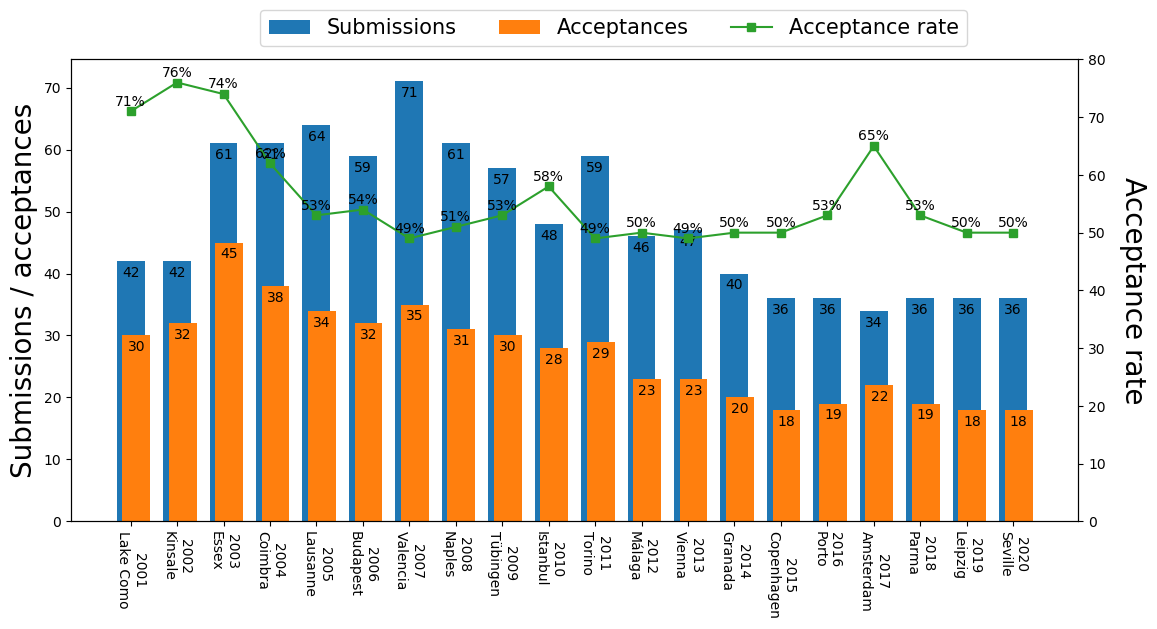
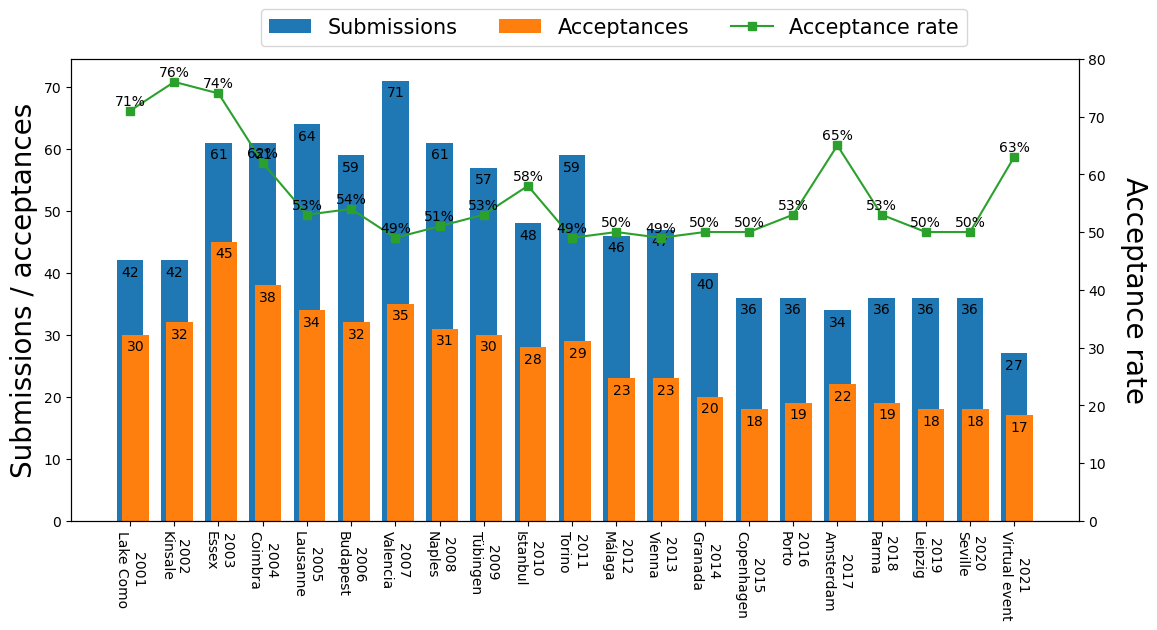
update statistics of 4 Evostar confs

diff --git a/index.md b/index.md
@@ -251,6 +251,7 @@ EuroGP is held as part of EvoStar, which consists of EuroGP, EvoApplications, Ev
 | 2018 | 36         | 19         | 53%             | Parma      | 
 | 2019 | 36         | 18         | 50%             | Leipzig    | 
 | 2020 | 36         | 18         | 50%             | Seville    | 
+| 2021 | 27         | 17         | 63%             | Virtual event    | 
 
 ![EuroGP](fig/stats_eurogp.png) 
 
@@ -284,6 +285,7 @@ EvoCOP is held as part of EvoStar, which consists of EuroGP, EvoApplications, Ev
 | 2018 | 37         | 12         | 32%             | Parma      | 
 | 2019 | 37         | 14         | 38%             | Leipzig    | 
 | 2020 | 37         | 14         | 38%             | Seville    | 
+| 2021 | 42         | 14         | 33%             | Virtual event    | 
 
 ![EvoCOP](fig/stats_evocop.png) 
 
@@ -306,6 +308,7 @@ EvoMUSART is held as part of EvoStar, which consists of EuroGP, EvoApplications,
 | 2018 | 33         | 20         | 61%             | Parma      | 
 | 2019 | 24         | 16         | 67%             | Leipzig    | 
 | 2020 | 31         | 15         | 48%             | Seville    | 
+| 2021 | 66         | 31         | 47%             | Virtual event    | 
 
 ![EvoMUSART](fig/stats_evomusart.png) 
 
@@ -331,6 +334,7 @@ EvoApplications is held as part of EvoStar, which consists of EuroGP, EvoApplica
 | 2018 | 84  | 59  | 70% | Parma      | 
 | 2019 | 66  | 44  | 67% | Leipzig    | 
 | 2020 | 62  | 44  | 71% | Seville    | 
+| 2021 | 78         | 51         | 65%             | Virtual event    | 
 
 ![EvoApplications](fig/stats_evoapp.png) 
 
